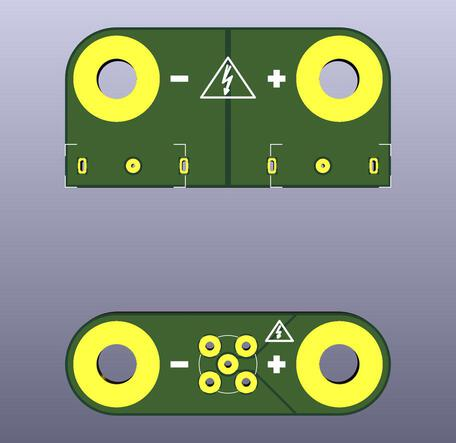
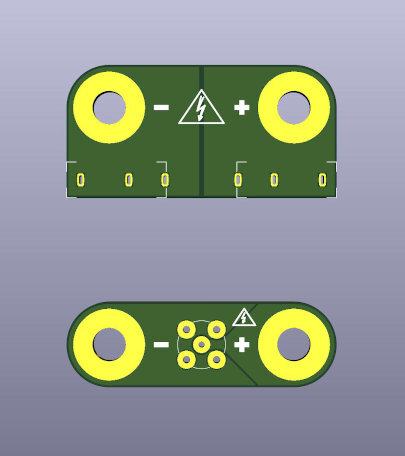
Update order data and README

Changed region(s): [[0.1185, 0.0587, 0.8593, 0.4402], [0.1185, 0.6456, 0.8593, 0.9391]]

diff --git a/README.md b/README.md
@@ -22,34 +22,27 @@ current applications.
 
 * 1 PCB
     * KiCad design files from this repository
-    * [Gerber an drill files](orders/dl3000-banana-adapter-1.0-85dbc15.zip)
-    * [Or just order it from OSH Park](https://oshpark.com/shared\_projects/gLsNtQ88)
+    * [Gerber an drill files](dl3000-banana-adapter-1.1-836d2cf.zip)
+    * [Or just order it from OSH Park](https://oshpark.com/shared\_projects/mZ4DxMM )
 
-* Banana Jacks
-
-  * Hirschmann Test and Measurement
-  
-    [PB4 red](https://www.reichelt.de/leiterplattenbuchse-4-mm-rot-pb-4-rt-p76865.html)
-    
-    [PB4 black](https://www.reichelt.de/leiterplattenbuchse-4-mm-schwarz-pb-4-sw-p13998.html)
-
-  * Harwin
-
-    [M3498 Red](https://www.digikey.ca/en/products/detail/harwin-inc/M3498-99/4953082)
-
-    [M3498 Black](https://www.digikey.ca/en/products/detail/harwin-inc/M3498-98/4953081)
-
-  * Cinch Connectivity Solutions Johnson
-
-    [Red](https://www.digikey.ca/en/products/detail/cinch-connectivity-solutions-johnson/105-0752-001/5887)
-    
-    [Black](https://www.digikey.ca/en/products/detail/cinch-connectivity-solutions-johnson/105-0753-001/5888)
+* Banana Jacks (you may fit either of the variants below)
+    * Hirschmann Test and Measurement
+        * [PB4 red](https://www.reichelt.de/leiterplattenbuchse-4-mm-rot-pb-4-rt-p76865.html)
+        * [PB4 black](https://www.reichelt.de/leiterplattenbuchse-4-mm-schwarz-pb-4-sw-p13998.html)
+    * Harwin
+        * [M3498 Red](https://www.digikey.ca/en/products/detail/harwin-inc/M3498-99/4953082)
+        * [M3498 Black](https://www.digikey.ca/en/products/detail/harwin-inc/M3498-98/4953081)
+    * Cinch Connectivity Solutions Johnson
+        * [Red](https://www.digikey.ca/en/products/detail/cinch-connectivity-solutions-johnson/105-0752-001/5887)
+        * [Black](https://www.digikey.ca/en/products/detail/cinch-connectivity-solutions-johnson/105-0753-001/5888)
 
 
 ### BNC Adapter
 
 * 1 PCB
     * KiCad design files form this repository
+    * As release 1.1 only updates the version number for this PCB, Gerber files
+      and the OSH Park project are still up to date.
     * [Gerber and drill files](orders/dl3000-bnc-adapter-1.0-85dbc15.zip)
     * [Or just order it from OSH Park](https://oshpark.com/shared\_projects/MOcX6Gow)
 * 1 [BNC connector](https://www.reichelt.de/steckverbinder-bnc-75-ohm-gerade-rnd-205-00437-p194660.html)
